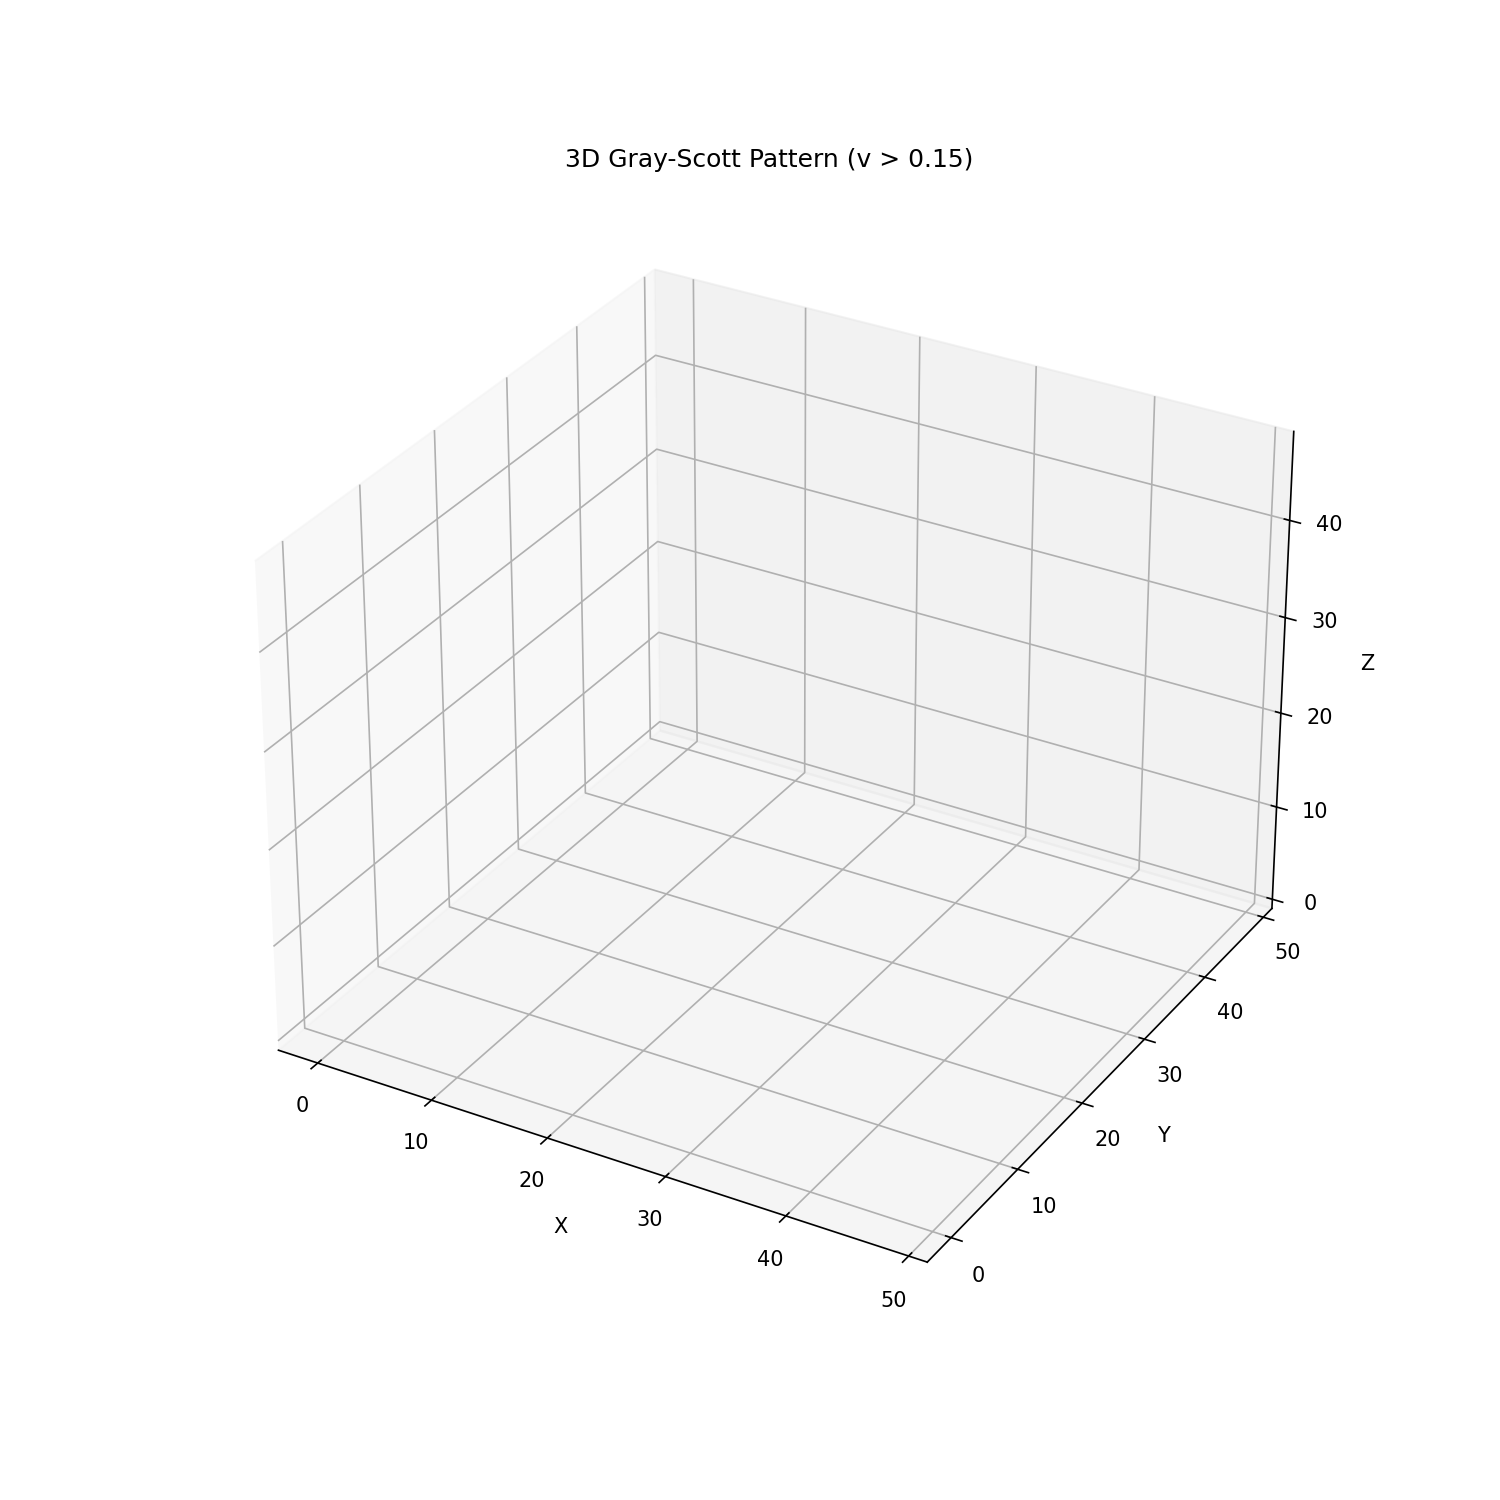
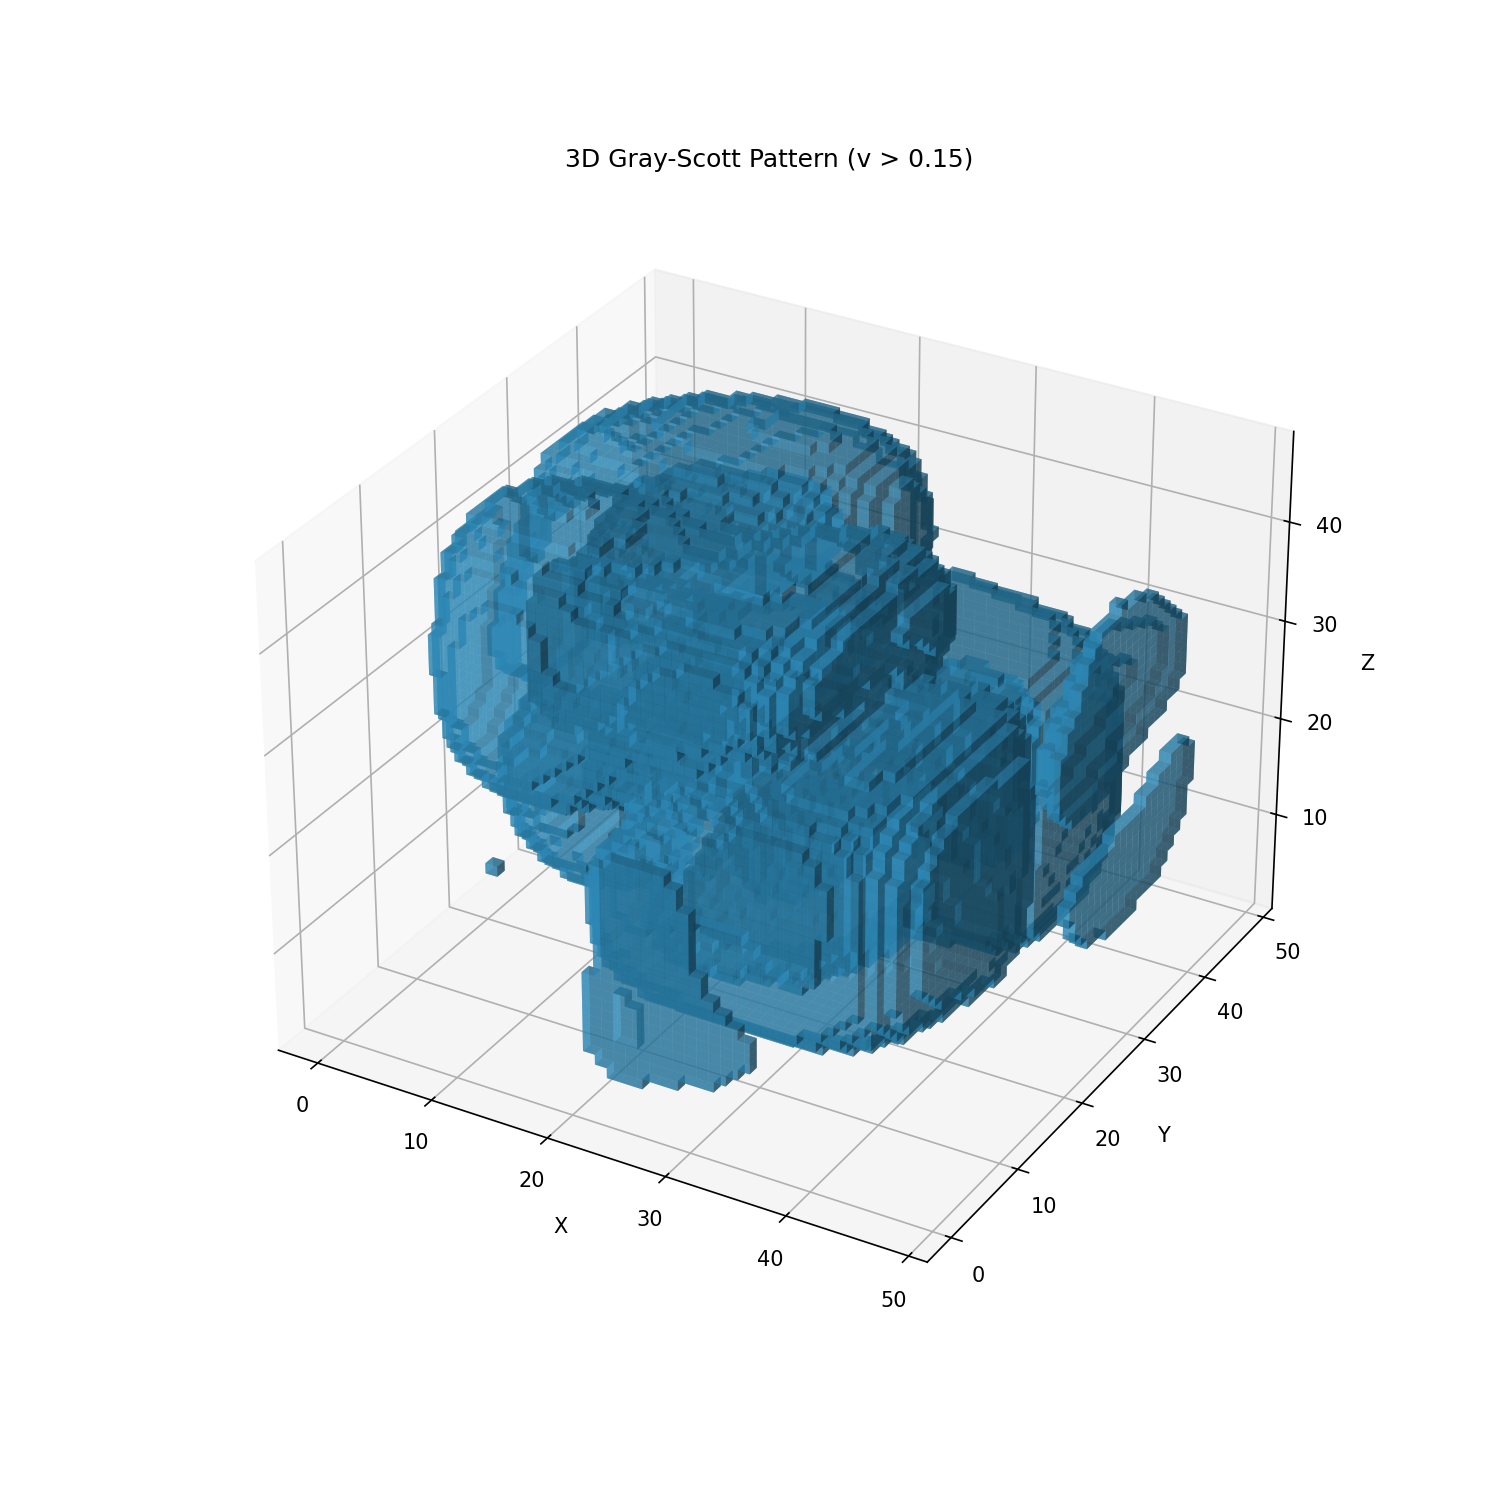
fix

diff --git a/run_3d_validation.py b/run_3d_validation.py
@@ -183,19 +183,29 @@ def run_3d_simulation():
     field = ResonantFieldND(dimensions=(48, 48, 48), channels=2)
     field.initialize_uniform([1.0, 0.0])
     
-    # Inject seeds in 3D space
+    # Inject seeds in 3D space - larger and stronger for 3D
     np.random.seed(42)
-    for _ in range(5):
-        x = np.random.randint(12, 36)
-        y = np.random.randint(12, 36)
-        z = np.random.randint(12, 36)
-        field.inject_seed_sphere(center=(z, y, x), radius=3, channel=1, value=0.25)
-        field.inject_seed_sphere(center=(z, y, x), radius=3, channel=0, value=0.5)
+    for _ in range(8):
+        x = np.random.randint(10, 38)
+        y = np.random.randint(10, 38)
+        z = np.random.randint(10, 38)
+        field.inject_seed_sphere(center=(z, y, x), radius=4, channel=1, value=0.35)
+        field.inject_seed_sphere(center=(z, y, x), radius=4, channel=0, value=0.45)
     
+    # 3D requires adjusted parameters due to dimensional scaling
+    # Laplacian center is -6 in 3D vs -4 in 2D (1.5x stronger diffusion)
+    # Compensate by reducing diffusion coefficients
     gs = GrayScott(feed_rate=0.055, kill_rate=0.062)
     sim = SimulationND(field, gs, dt=1.0)
-    sim.set_diffusion_coefficients([0.16, 0.08])
     
+    # Scale diffusion by 2D/3D ratio = 4/6 = 0.667
+    dimensional_scale = 4.0 / 6.0
+    d_u_3d = 0.16 * dimensional_scale
+    d_v_3d = 0.08 * dimensional_scale
+    sim.set_diffusion_coefficients([d_u_3d, d_v_3d])
+    
+    print(f"Dimensional scaling: {dimensional_scale:.3f}")
+    print(f"Adjusted diffusion: D_u={d_u_3d:.4f}, D_v={d_v_3d:.4f}")
     print("Running 1000 steps (3D is computationally intensive)...")
     sim.run(1000)
     

diff --git a/phase0.md b/phase0.md
@@ -71,3 +71,5 @@ Real-time performance on massive grids
 WebGPU/Vulkan rendering
 The kernel DSL compiler
 You port the validated Python to Rust via PyO3 bindings, keeping Python as the orchestration layer.
+
+Important discovery: the same physics at different dimensions requires parameter rescaling. The characteristic wavelength scales with the Laplacian's effective strength.
